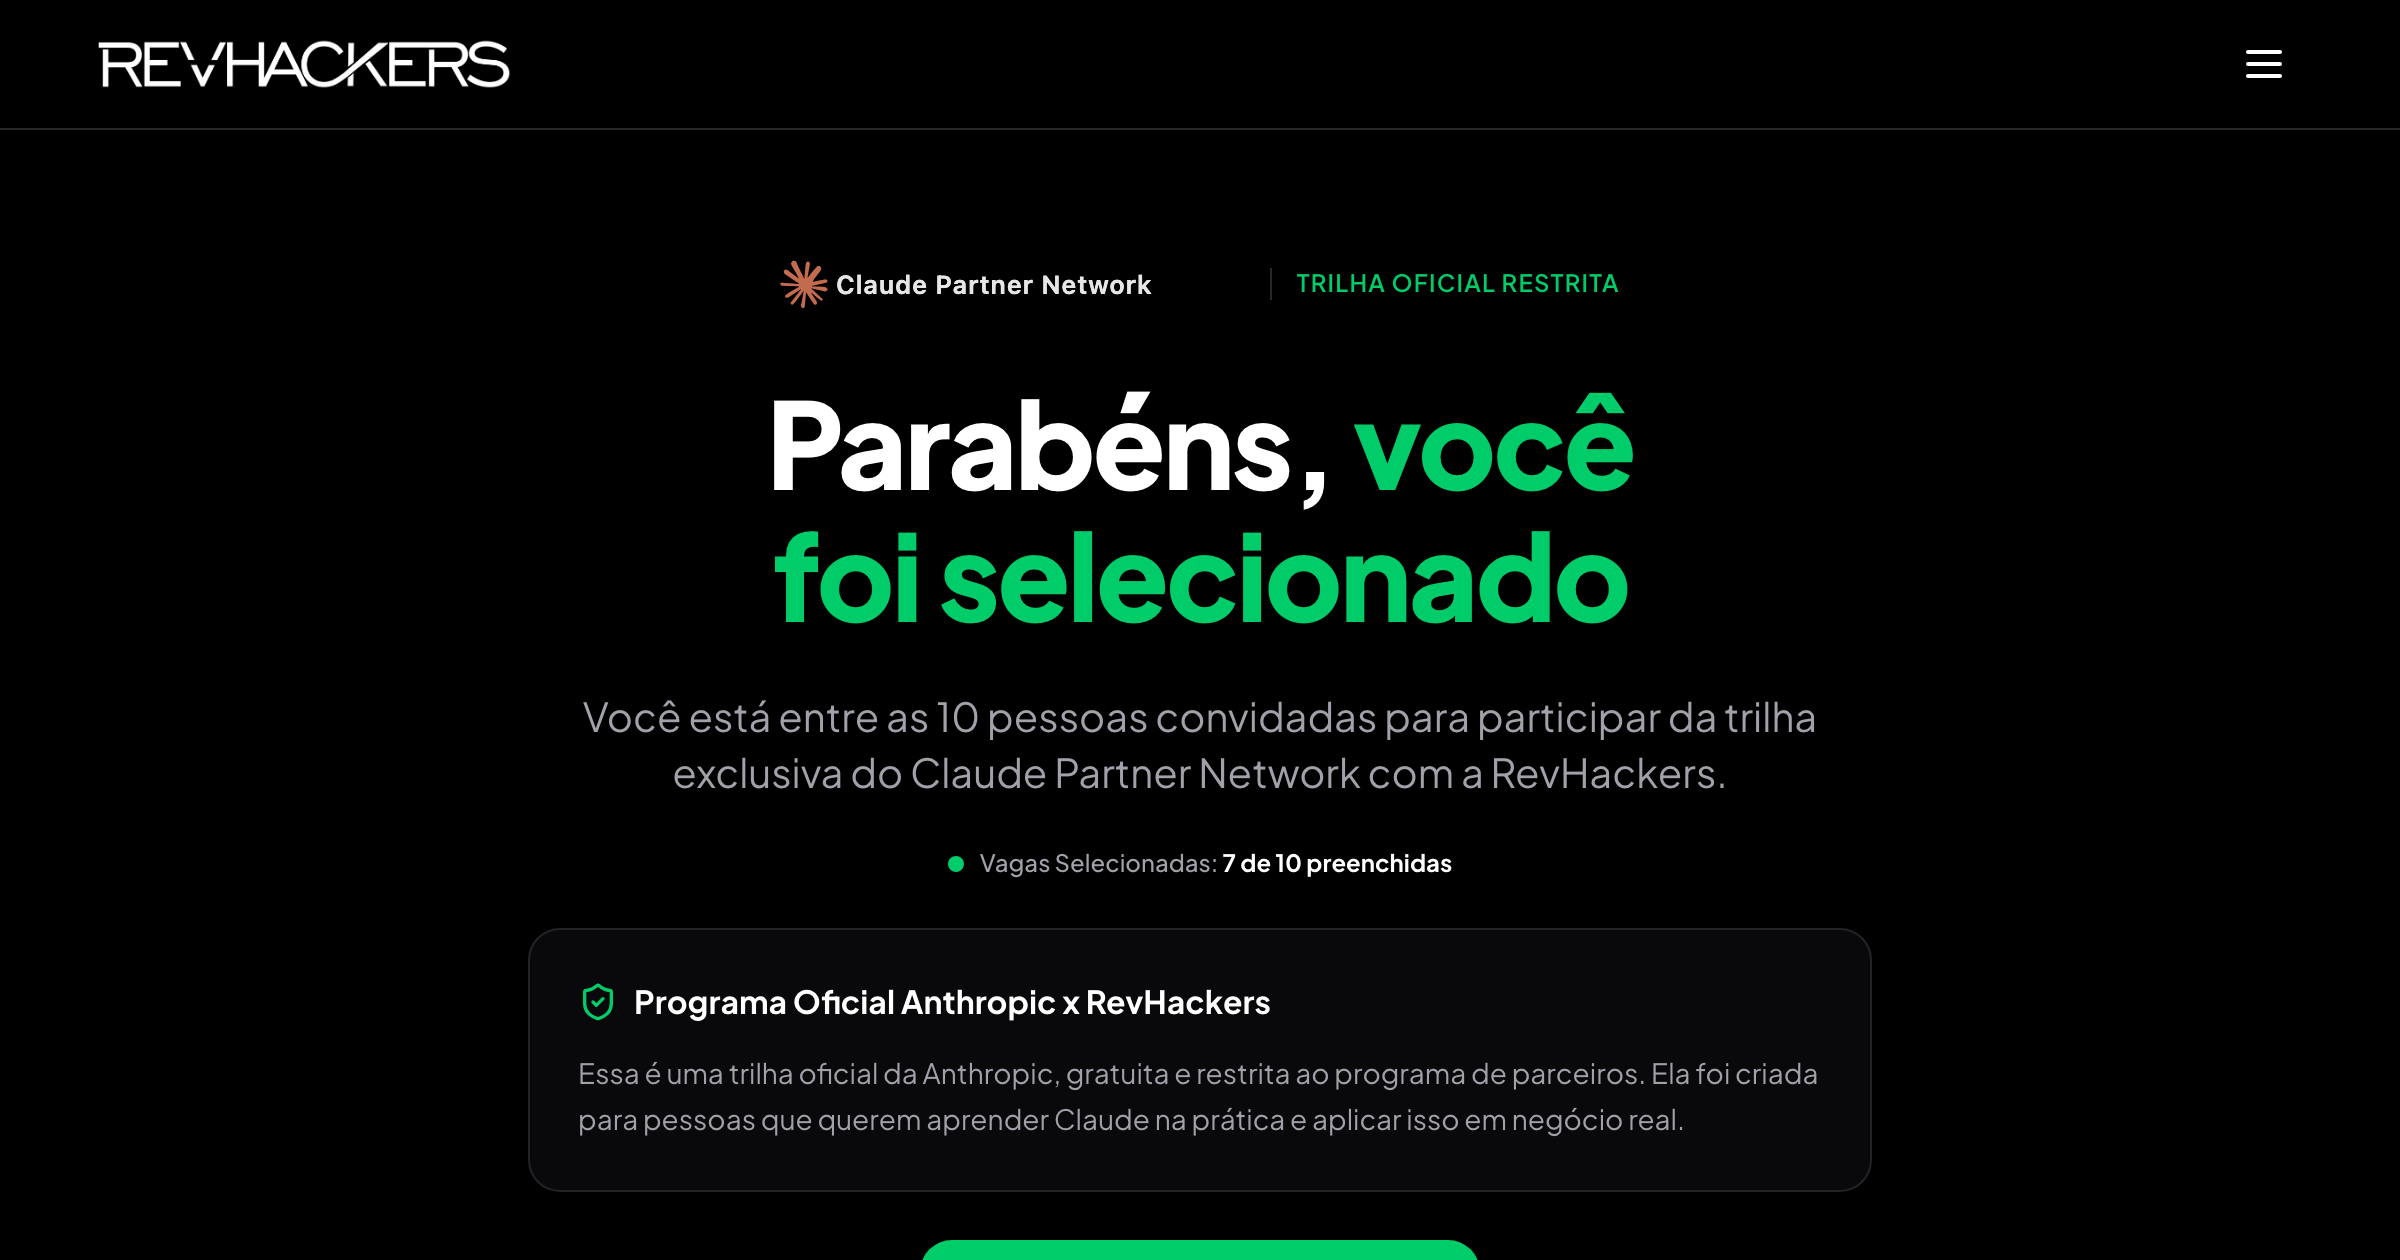
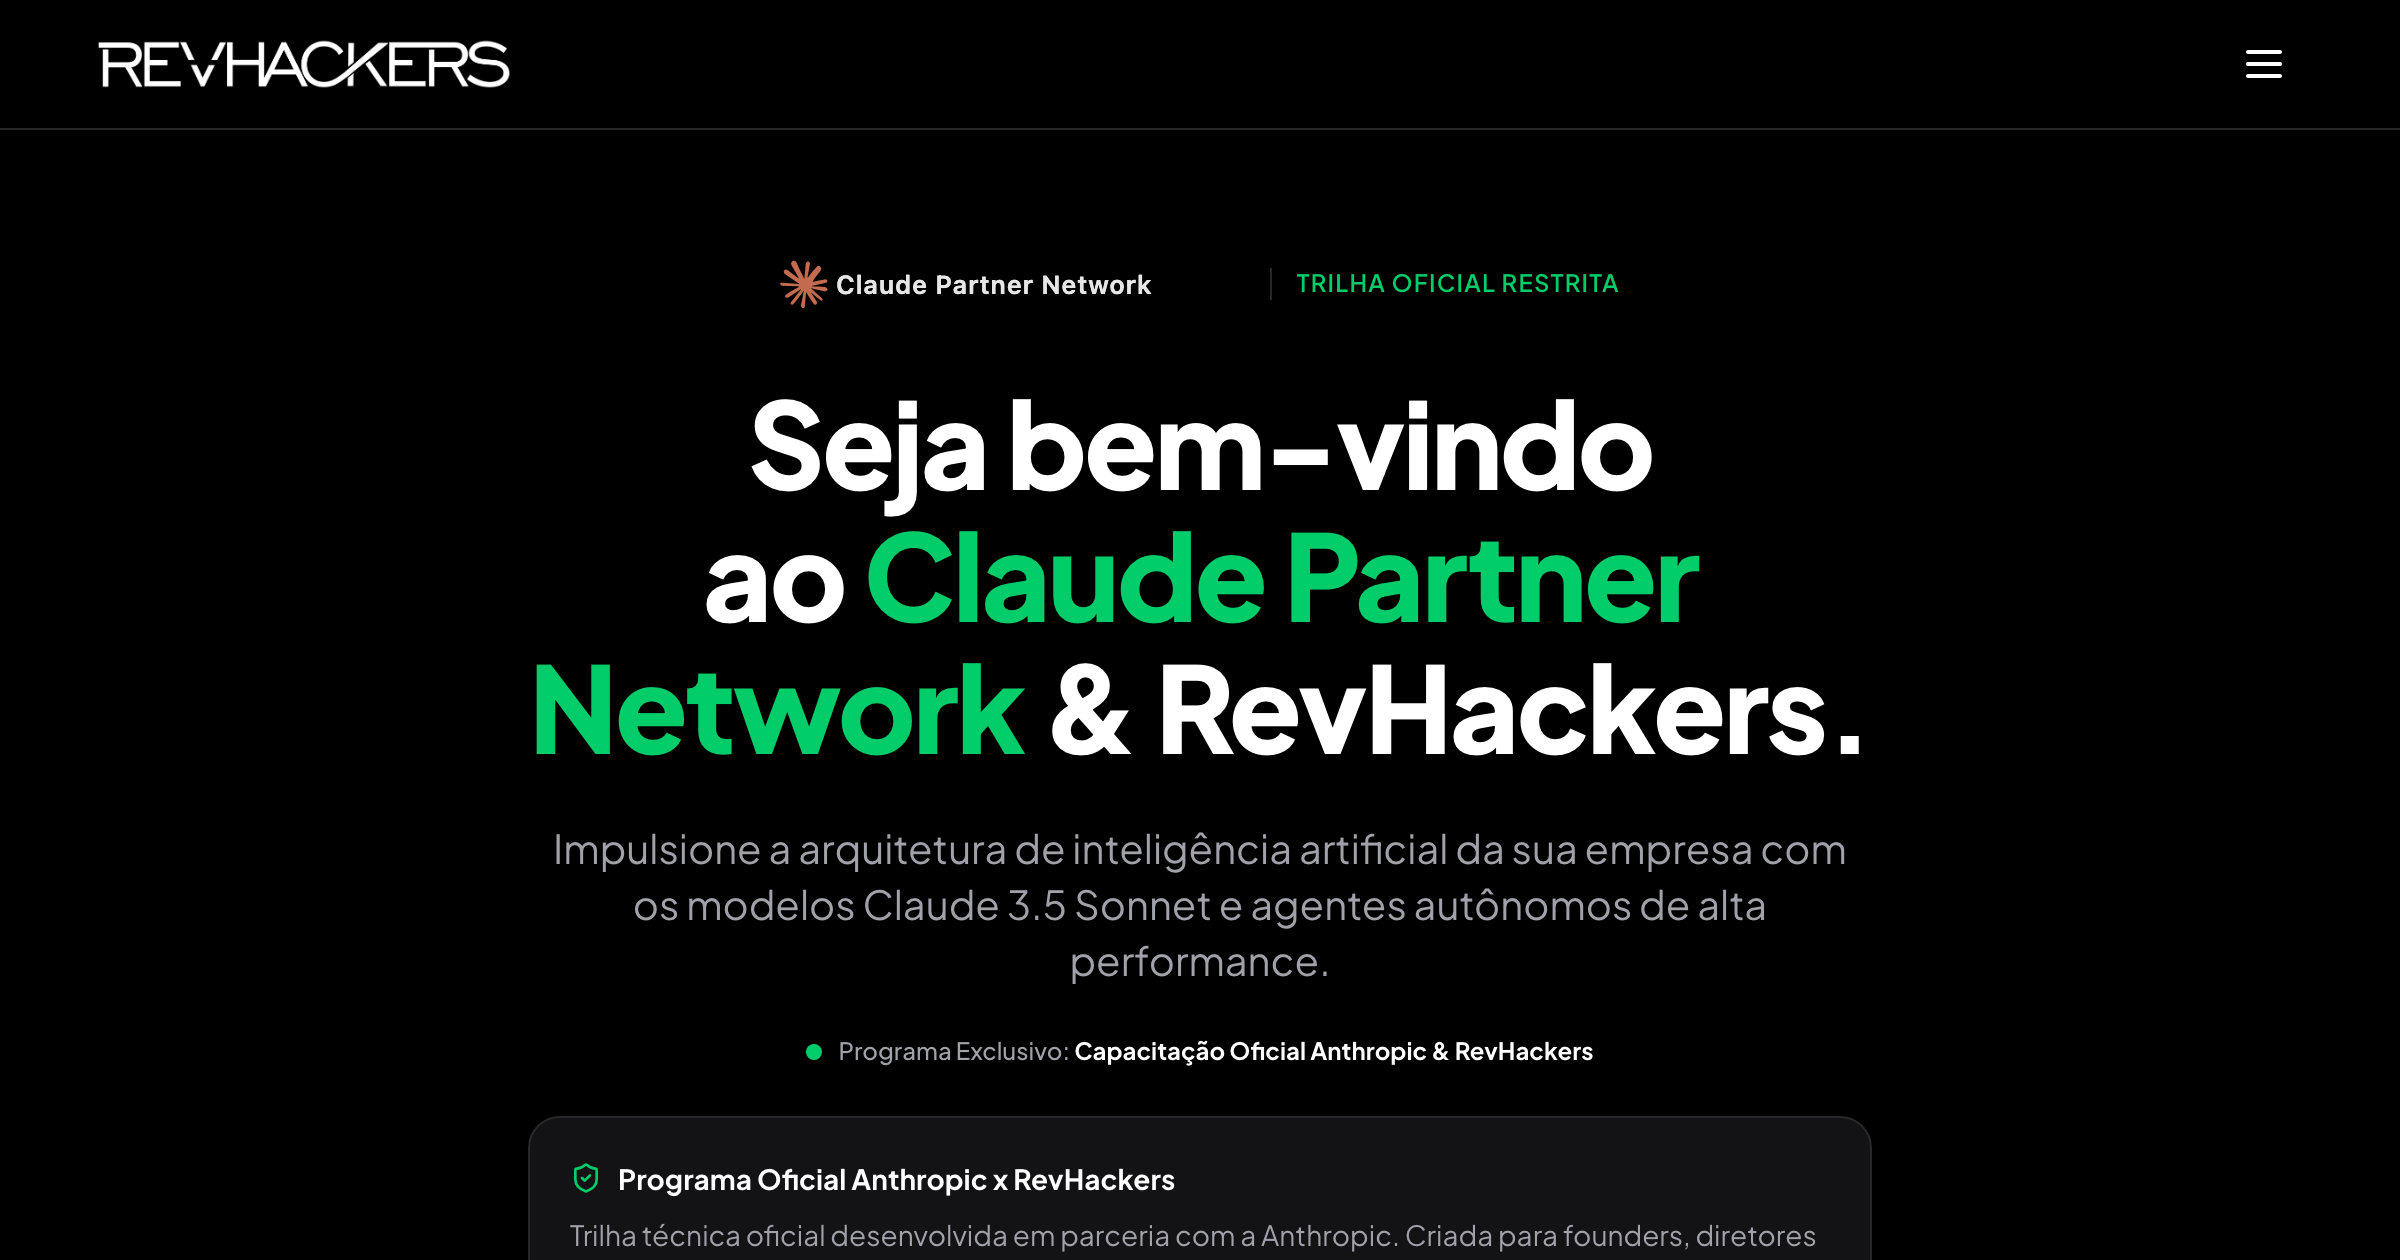
fix(hero): replace generic 'Parabéns você foi selecionado' with authentic 'Seja bem-vindo ao Claude Partner Network & RevHackers' Hero headline and badge

diff --git a/src/pages/ClaudePartnerNetworkPage.tsx b/src/pages/ClaudePartnerNetworkPage.tsx
@@ -150,7 +150,7 @@ export default function ClaudePartnerNetworkPage() {
             transition={{ duration: 0.5, delay: 0.05, ease: 'easeOut' }}
             className="font-sans text-[2.25rem] sm:text-[3rem] md:text-[3.75rem] font-extrabold text-white leading-[1.1] tracking-tight text-center"
           >
-            Parabéns, <span className="text-[#00CC6A]">você foi selecionado</span>
+            Seja bem-vindo ao <span className="text-[#00CC6A]">Claude Partner Network</span> & RevHackers.
           </motion.h1>
 
           {/* Subheadline */}
@@ -160,7 +160,7 @@ export default function ClaudePartnerNetworkPage() {
             transition={{ duration: 0.5, delay: 0.1, ease: 'easeOut' }}
             className="text-zinc-400 text-base md:text-xl font-normal leading-relaxed max-w-2xl mx-auto text-center"
           >
-            Você está entre as 10 pessoas convidadas para participar da trilha exclusiva do Claude Partner Network com a RevHackers.
+            Impulsione a arquitetura de inteligência artificial da sua empresa com os modelos Claude 3.5 Sonnet e agentes autônomos de alta performance.
           </motion.p>
 
           {/* Indicador de Status Limpo — Padrão da Home */}
@@ -171,7 +171,7 @@ export default function ClaudePartnerNetworkPage() {
             className="flex items-center justify-center gap-2 text-zinc-400 text-xs font-medium"
           >
             <span className="w-2 h-2 rounded-full bg-[#00CC6A]" />
-            <span>Vagas Selecionadas: <strong className="text-white">7 de 10 preenchidas</strong></span>
+            <span>Programa Exclusivo: <strong className="text-white">Capacitação Oficial Anthropic & RevHackers</strong></span>
           </motion.div>
 
           {/* Box de Apoio */}
@@ -179,14 +179,14 @@ export default function ClaudePartnerNetworkPage() {
             initial={{ opacity: 0, y: 16 }}
             animate={inViewHero ? { opacity: 1, y: 0 } : {}}
             transition={{ duration: 0.5, delay: 0.15, ease: 'easeOut' }}
-            className="p-6 rounded-2xl bg-zinc-950 border border-zinc-800/90 max-w-2xl mx-auto text-sm text-zinc-300 text-left space-y-3 shadow-2xl"
+            className="w-full max-w-2xl bg-zinc-900/80 rounded-xl p-5 border border-zinc-800 text-left space-y-2"
           >
-            <div className="flex items-center gap-2 text-white font-bold text-base">
-              <ShieldCheck className="w-5 h-5 text-[#00CC6A] shrink-0" />
-              <span>Programa Oficial Anthropic x RevHackers</span>
+            <div className="flex items-center gap-2 text-white font-bold text-sm">
+              <ShieldCheck className="w-4 h-4 text-[#00CC6A]" />
+              Programa Oficial Anthropic x RevHackers
             </div>
-            <p className="leading-relaxed text-zinc-400">
-              Essa é uma trilha oficial da Anthropic, gratuita e restrita ao programa de parceiros. Ela foi criada para pessoas que querem aprender Claude na prática e aplicar isso em negócio real.
+            <p className="text-zinc-400 text-xs sm:text-sm leading-relaxed">
+              Trilha técnica oficial desenvolvida em parceria com a Anthropic. Criada para founders, diretores e times de tecnologia aplicarem a pilha de modelos Claude e agentes autônomos em operações reais.
             </p>
           </motion.div>
 
